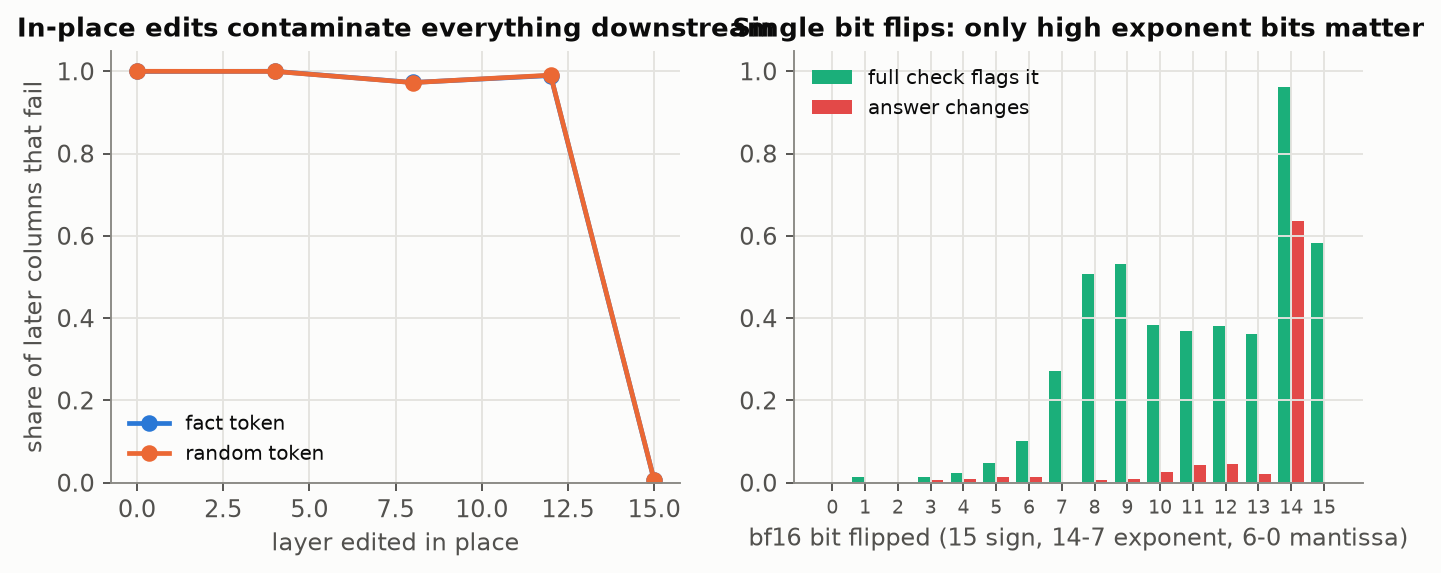
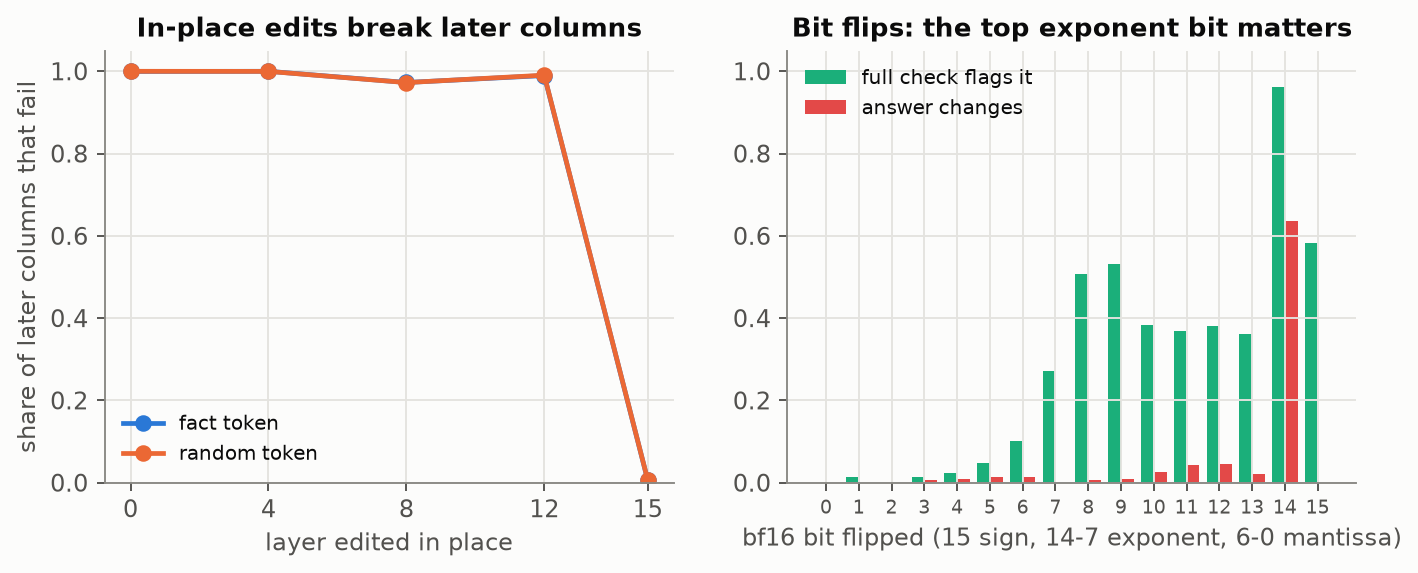
Fix overlapping titles and layer ticks in corruption figure

Changed region(s): [[0.0, 0.0297, 0.9929, 0.9791], [0.1551, 0.623, 0.4654, 0.9791], [0.3724, 0.1187, 0.4344, 0.623]]

diff --git a/experiments/figures.py b/experiments/figures.py
@@ -159,8 +159,9 @@ def fig_corrupt():
         ys = [np.mean([e["n_flagged"] / max(e["n_after"], 1) for e in E if e["layer"] == l and e["kind"] == kind]) for l in layers]
         ax.plot(layers, ys, "-o", color=col, label=lab, markersize=6)
     ax.set_xlabel("layer edited in place")
+    ax.set_xticks(layers, [str(l) for l in layers])
     ax.set_ylabel("share of later columns that fail")
-    ax.set_title("In-place edits contaminate everything downstream")
+    ax.set_title("In-place edits break later columns")
     ax.set_ylim(0, 1.05)
     ax.legend(fontsize=8.5)
     ax = axes[1]
@@ -173,7 +174,7 @@ def fig_corrupt():
     ax.bar(x + 0.2, ch, 0.38, color=C["red"], label="answer changes")
     ax.set_xticks(x, [str(b) for b in bits], fontsize=8)
     ax.set_xlabel("bf16 bit flipped (15 sign, 14-7 exponent, 6-0 mantissa)")
-    ax.set_title("Single bit flips: only high exponent bits matter")
+    ax.set_title("Bit flips: the top exponent bit matters")
     ax.legend(fontsize=8.5, loc="upper left")
     ax.set_ylim(0, 1.05)
     save(fig, "corrupt")
